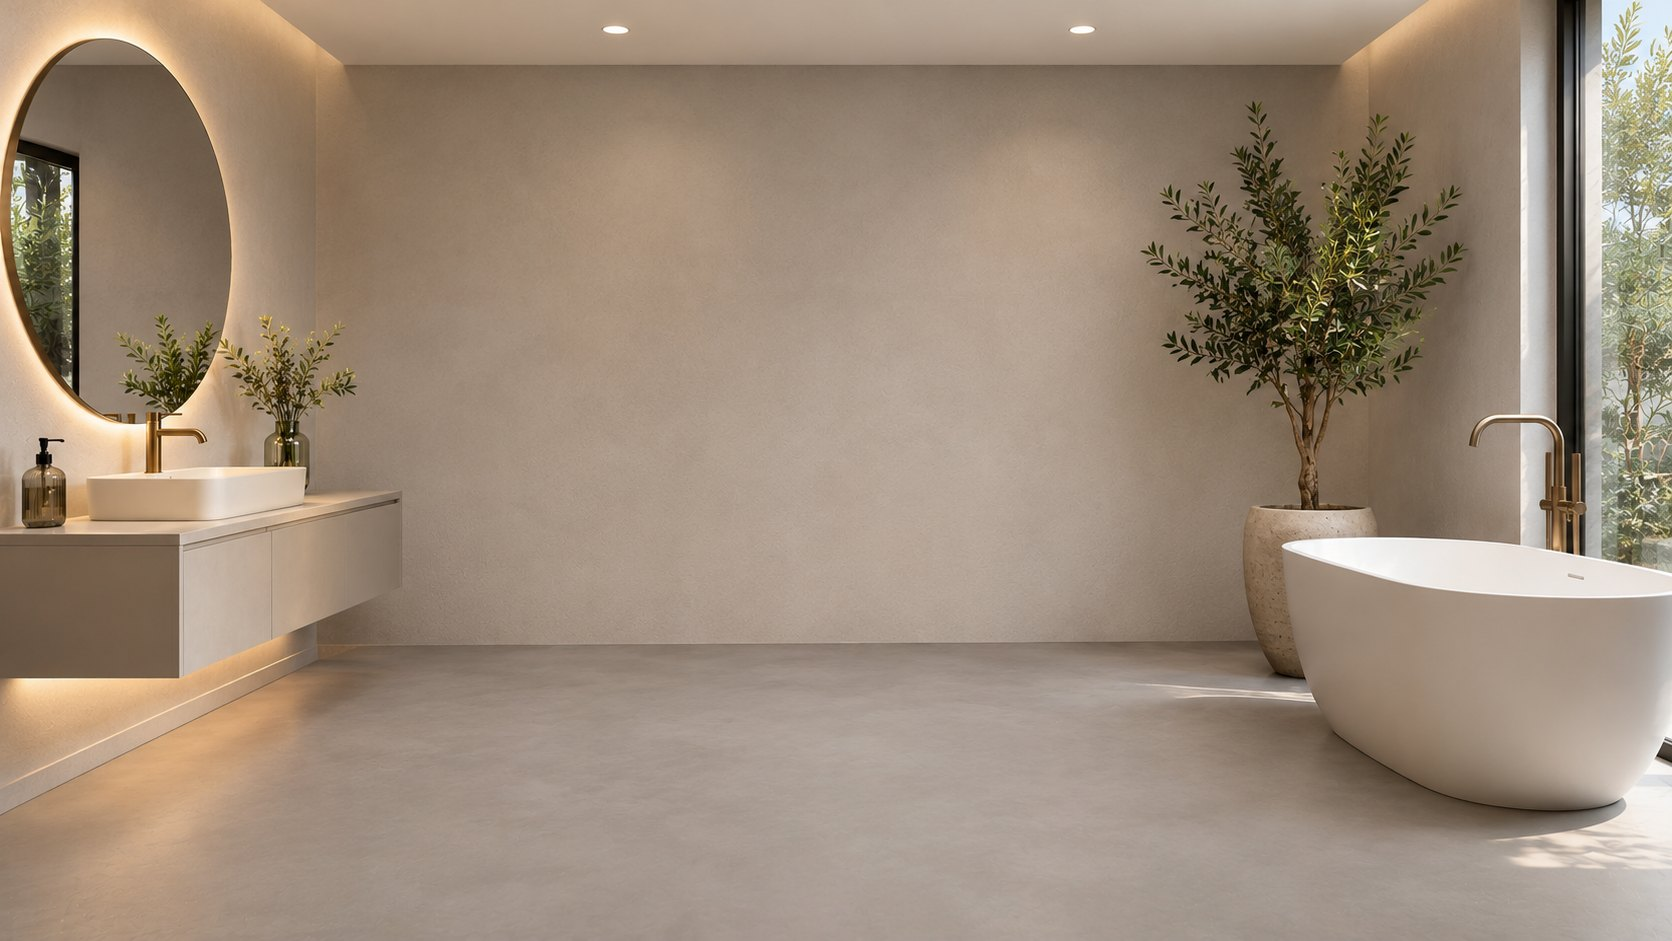
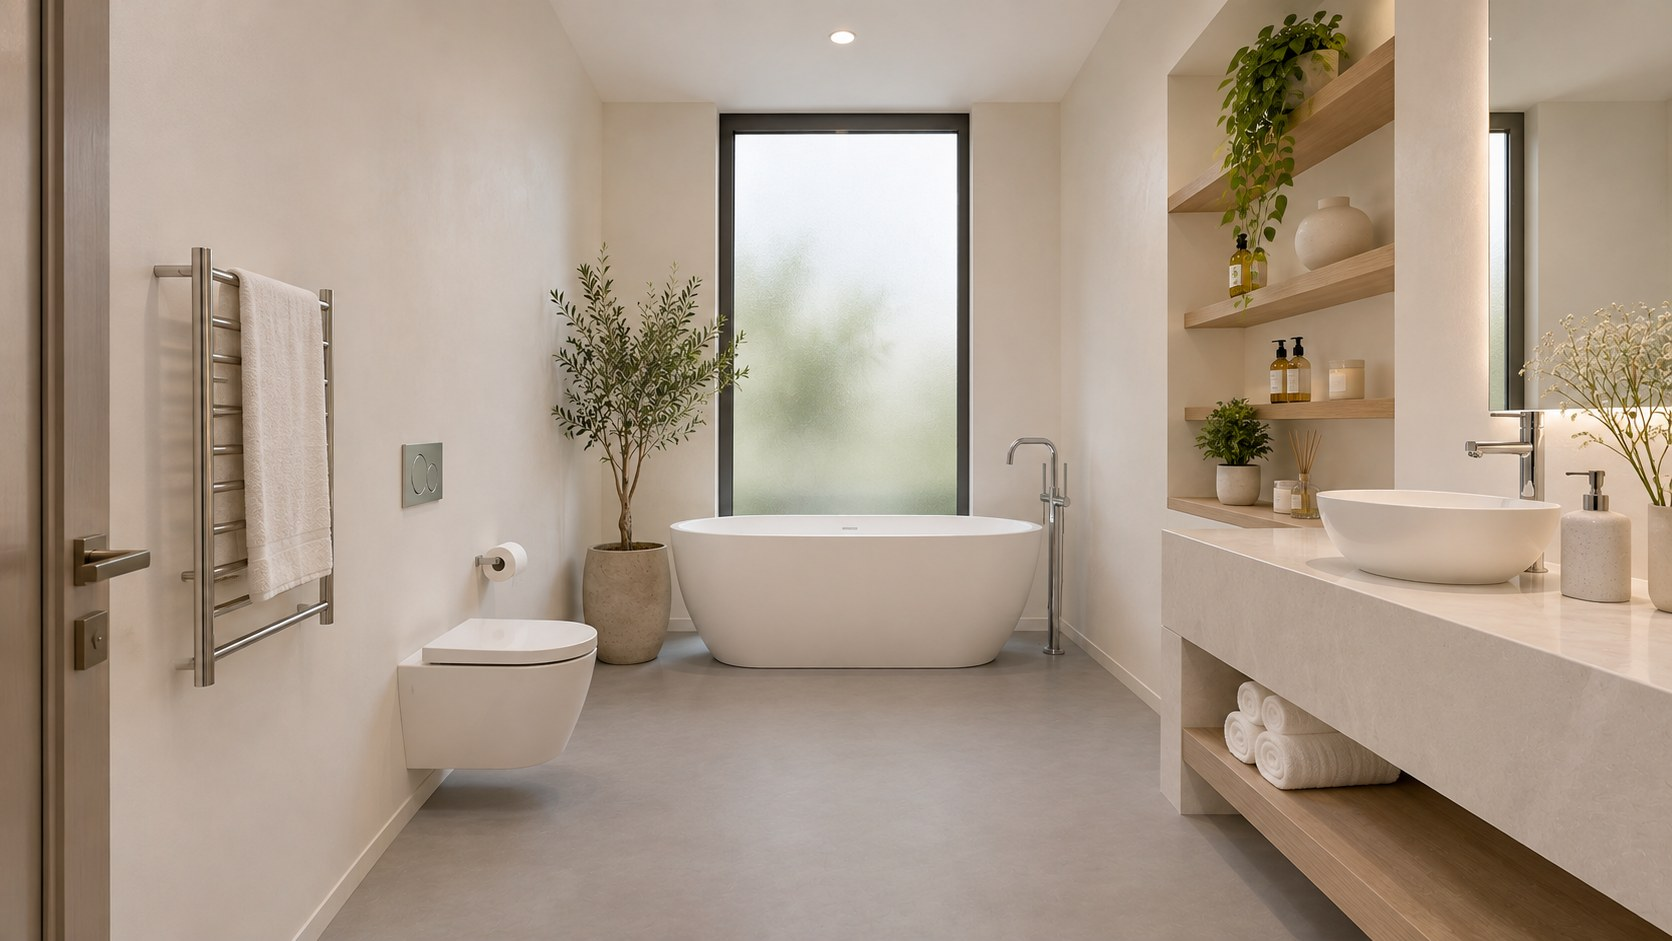
Visualiser: 9 rooms (bedroom, office, second bathroom added)
Claude-Session: https://claude.ai/code/session_01EE4kdPvdddCpepWvD8u61m

diff --git a/frontend/assets/rooms.js b/frontend/assets/rooms.js
@@ -5,20 +5,6 @@
  * horizon at camera height), scaled so furniture comes out at a normal size. */
 window.NOVA_ROOMS = [
   {
-    id: "terrace", name: "Terrace", location: "outdoor", photo: "/images/vis_terrace.jpg",
-    surfaces: {
-      floor: [{
-        quad: [[420, 597], [1550, 597], [2586, 941], [-184, 941]], size: [572, 401],
-        area: [[0, 652], [100, 628], [420, 598], [1550, 598], [1672, 640], [1672, 941], [0, 941]],
-        keep: [
-          [[105, 440], [260, 440], [335, 480], [340, 620], [270, 612], [195, 640], [125, 627], [108, 560]],
-          [[305, 485], [420, 485], [420, 600], [330, 610]],
-          [[1362, 480], [1430, 440], [1590, 440], [1598, 480], [1585, 620], [1530, 640], [1420, 640], [1365, 615]],
-        ],
-      }],
-    },
-  },
-  {
     id: "living", name: "Living room", location: "indoor", photo: "/images/vis_living.jpg",
     surfaces: {
       floor: [{
@@ -40,21 +26,52 @@ window.NOVA_ROOMS = [
     },
   },
   {
-    id: "bathroom", name: "Bathroom", location: "indoor", photo: "/images/vis_bathroom.jpg",
+    id: "tvroom", name: "TV lounge", location: "indoor", photo: "/images/vis_tvroom.jpg",
     surfaces: {
       floor: [{
-        quad: [[320, 645], [1340, 645], [1983, 941], [-338, 941]], size: [528, 388],
-        area: [[0, 800], [310, 650], [330, 645], [1250, 645], [1300, 680], [1672, 700], [1672, 941], [0, 941]],
+        quad: [[300, 582], [1250, 582], [2015, 941], [-666, 941]], size: [627, 473],
+        area: [[0, 582], [1250, 582], [1672, 772], [1672, 941], [0, 941]],
         keep: [
-          [[1243, 520], [1375, 510], [1360, 600], [1320, 670], [1268, 678], [1250, 620]],
-          [[1282, 545], [1330, 538], [1500, 540], [1672, 560], [1672, 760], [1610, 800], [1530, 808], [1420, 790], [1340, 740], [1300, 660]],
+          [[0, 460], [150, 450], [390, 445], [545, 495], [745, 520], [745, 598], [590, 632], [500, 640], [408, 702], [318, 790], [305, 850], [0, 850]],
+          [[567, 598], [972, 598], [972, 688], [912, 688], [912, 744], [630, 744], [630, 688], [567, 688]],
+          [[1225, 522], [1672, 598], [1672, 762], [1590, 752], [1236, 600]],
         ],
       }],
       wall: [{
-        quad: [[320, 65], [1340, 65], [1340, 645], [320, 645]], size: [528, 300],
-        area: [[322, 66], [1338, 66], [1338, 643], [322, 643]],
-        keep: [[[300, 488], [400, 488], [400, 620], [300, 680]], [[1262, 505], [1378, 500], [1372, 600], [1335, 652], [1270, 652], [1255, 580]]],
-        auto: [[1140, 100, 1470, 680], [300, 300, 360, 500]],
+        quad: [[1250, 128], [1672, -132], [1672, 780], [1250, 582]], size: [368, 300],
+        area: [[1250, 128], [1460, 0], [1672, 0], [1672, 772], [1250, 582]],
+        keep: [
+          [[1340, 250], [1567, 183], [1567, 502], [1340, 486]],
+          [[1225, 522], [1672, 598], [1672, 762], [1590, 752], [1236, 600]],
+          [[1245, 440], [1320, 440], [1320, 528], [1245, 528]],
+        ],
+        auto: [[1525, 440, 1672, 612]],
+      }],
+    },
+  },
+  {
+    id: "bedroom", name: "Bedroom", location: "indoor", photo: "/images/vis_bedroom.jpg",
+    surfaces: {
+      floor: [{
+        quad: [[445, 652], [1390, 652], [1746, 941], [-613, 941]], size: [455, 318],
+        area: [[0, 762], [300, 692], [445, 652], [1390, 655], [1672, 895], [1672, 941], [0, 941]],
+        keep: [
+          [[0, 540], [60, 530], [200, 535], [255, 560], [268, 640], [262, 730], [240, 748], [125, 782], [0, 772]],
+          [[400, 620], [470, 565], [700, 548], [700, 437], [1165, 437], [1168, 560], [1172, 700], [1176, 832], [1120, 824], [430, 772], [425, 740], [400, 692]],
+          [[475, 548], [665, 548], [665, 612], [475, 612]],
+          [[1165, 560], [1348, 560], [1348, 684], [1172, 684]],
+        ],
+      }],
+      wall: [{
+        quad: [[445, 75], [1390, 75], [1390, 652], [445, 652]], size: [455, 278],
+        area: [[447, 77], [1388, 77], [1388, 656], [447, 656]],
+        keep: [
+          [[475, 684], [475, 548], [700, 548], [700, 437], [1165, 437], [1168, 560], [1348, 560], [1348, 684]],
+          [[512, 480], [518, 458], [545, 445], [570, 456], [577, 480], [566, 482], [570, 552], [536, 552], [540, 482]],
+          [[594, 470], [652, 470], [646, 515], [634, 552], [612, 552], [600, 512]],
+          [[1227, 482], [1240, 456], [1278, 443], [1316, 456], [1330, 482], [1300, 484], [1300, 512], [1324, 512], [1324, 572], [1255, 572], [1258, 484]],
+          { ring: [745, 128, 152, 62, 112, 28] },
+        ],
       }],
     },
   },
@@ -83,26 +100,87 @@ window.NOVA_ROOMS = [
     },
   },
   {
-    id: "tvroom", name: "TV lounge", location: "indoor", photo: "/images/vis_tvroom.jpg",
+    id: "bathroom", name: "Bathroom", location: "indoor", photo: "/images/vis_bathroom.jpg",
     surfaces: {
       floor: [{
-        quad: [[300, 582], [1250, 582], [2015, 941], [-666, 941]], size: [627, 473],
-        area: [[0, 582], [1250, 582], [1672, 772], [1672, 941], [0, 941]],
+        quad: [[603, 625], [1063, 625], [1452, 941], [290, 941]], size: [256, 370],
+        area: [[290, 941], [603, 626], [1063, 622], [1160, 700], [1165, 860], [1260, 860], [1400, 941]],
         keep: [
-          [[0, 460], [150, 450], [390, 445], [545, 495], [745, 520], [745, 598], [590, 632], [500, 640], [408, 702], [318, 790], [305, 850], [0, 850]],
-          [[567, 598], [972, 598], [972, 688], [912, 688], [912, 744], [630, 744], [630, 688], [567, 688]],
-          [[1225, 522], [1672, 598], [1672, 762], [1590, 752], [1236, 600]],
+          [[395, 615], [600, 615], [600, 700], [560, 745], [470, 772], [395, 772]],
+          [[668, 525], [1015, 515], [1020, 600], [990, 655], [950, 670], [720, 670], [685, 652], [670, 600]],
+          [[583, 543], [668, 543], [660, 620], [640, 666], [600, 666], [588, 620]],
+          [[1036, 440], [1066, 440], [1070, 657], [1036, 657]],
         ],
       }],
       wall: [{
-        quad: [[1250, 128], [1672, -132], [1672, 780], [1250, 582]], size: [368, 300],
-        area: [[1250, 128], [1460, 0], [1672, 0], [1672, 772], [1250, 582]],
+        quad: [[600, 157], [40, -545], [40, 1182], [600, 625]], size: [444, 260],
+        area: [[110, 0], [600, 0], [600, 627], [292, 941], [110, 941]],
         keep: [
-          [[1340, 250], [1567, 183], [1567, 502], [1340, 486]],
-          [[1225, 522], [1672, 598], [1672, 762], [1590, 752], [1236, 600]],
-          [[1245, 440], [1320, 440], [1320, 528], [1245, 528]],
+          [[226, 262], [320, 280], [334, 604], [238, 608]],
+          [[395, 615], [600, 615], [600, 700], [560, 745], [470, 772], [395, 772]],
+          [[400, 440], [446, 440], [446, 510], [400, 510]],
+          [[472, 536], [532, 536], [532, 576], [472, 576]],
+          [[583, 543], [668, 543], [660, 620], [640, 666], [600, 666], [588, 620]],
         ],
-        auto: [[1525, 440, 1672, 612]],
+        auto: [[150, 240, 342, 692], [545, 240, 605, 560]], autoDark: 0.86,
+      }],
+    },
+  },
+  {
+    id: "spa", name: "Spa bathroom", location: "indoor", photo: "/images/vis_spa.jpg",
+    surfaces: {
+      floor: [{
+        quad: [[320, 645], [1340, 645], [1983, 941], [-338, 941]], size: [528, 388],
+        area: [[0, 800], [310, 650], [330, 645], [1250, 645], [1300, 680], [1672, 700], [1672, 941], [0, 941]],
+        keep: [
+          [[1243, 520], [1375, 510], [1360, 600], [1320, 670], [1268, 678], [1250, 620]],
+          [[1282, 545], [1330, 538], [1500, 540], [1672, 560], [1672, 760], [1610, 800], [1530, 808], [1420, 790], [1340, 740], [1300, 660]],
+        ],
+      }],
+      wall: [{
+        quad: [[320, 65], [1340, 65], [1340, 645], [320, 645]], size: [528, 300],
+        area: [[322, 66], [1338, 66], [1338, 643], [322, 643]],
+        keep: [[[300, 488], [400, 488], [400, 620], [300, 680]], [[1262, 505], [1378, 500], [1372, 600], [1335, 652], [1270, 652], [1255, 580]]],
+        auto: [[1140, 100, 1470, 680], [300, 300, 360, 500]],
+      }],
+    },
+  },
+  {
+    id: "office", name: "Office", location: "indoor", photo: "/images/vis_office.jpg",
+    surfaces: {
+      floor: [{
+        quad: [[445, 577], [1200, 577], [2331, 941], [-280, 941]], size: [714, 740],
+        area: [[0, 800], [100, 752], [445, 578], [1200, 578], [1672, 600], [1672, 941], [0, 941]],
+        keep: [
+          [[135, 575], [200, 558], [300, 565], [335, 610], [335, 700], [320, 712], [260, 744], [200, 744], [140, 727], [135, 650]],
+          [[300, 580], [385, 575], [392, 682], [345, 692], [330, 640]],
+          [[345, 535], [400, 525], [470, 540], [484, 580], [483, 642], [400, 660], [345, 642]],
+          [[458, 510], [532, 510], [528, 596], [484, 598]],
+          [[1000, 460], [1672, 420], [1672, 665], [1500, 668], [1380, 640], [1290, 640], [1240, 672], [1200, 664], [1100, 674], [1095, 640], [1060, 634], [1010, 630], [1000, 600]],
+          [[1255, 500], [1350, 495], [1370, 560], [1450, 640], [1490, 700], [1490, 780], [1482, 872], [1440, 876], [1340, 872], [1258, 832], [1265, 800], [1310, 770], [1335, 745], [1300, 720], [1280, 620]],
+          [[1488, 660], [1672, 660], [1672, 941], [1488, 941]],
+          [[1266, 640], [1293, 640], [1293, 794], [1266, 794]],
+        ],
+      }],
+      wall: [{
+        quad: [[445, 260], [100, 62], [100, 750], [445, 577]], size: [560, 300],
+        area: [[105, 0], [175, 0], [445, 205], [445, 577], [105, 752]],
+        keep: [[[135, 575], [200, 558], [265, 560], [280, 520], [345, 520], [345, 535], [400, 525], [445, 535], [445, 650], [400, 660], [335, 700], [320, 712], [260, 744], [140, 727]]],
+        auto: [[385, 295, 445, 600]],
+      }],
+    },
+  },
+  {
+    id: "terrace", name: "Terrace", location: "outdoor", photo: "/images/vis_terrace.jpg",
+    surfaces: {
+      floor: [{
+        quad: [[420, 597], [1550, 597], [2586, 941], [-184, 941]], size: [572, 401],
+        area: [[0, 652], [100, 628], [420, 598], [1550, 598], [1672, 640], [1672, 941], [0, 941]],
+        keep: [
+          [[105, 440], [260, 440], [335, 480], [340, 620], [270, 612], [195, 640], [125, 627], [108, 560]],
+          [[305, 485], [420, 485], [420, 600], [330, 610]],
+          [[1362, 480], [1430, 440], [1590, 440], [1598, 480], [1585, 620], [1530, 640], [1420, 640], [1365, 615]],
+        ],
       }],
     },
   },
